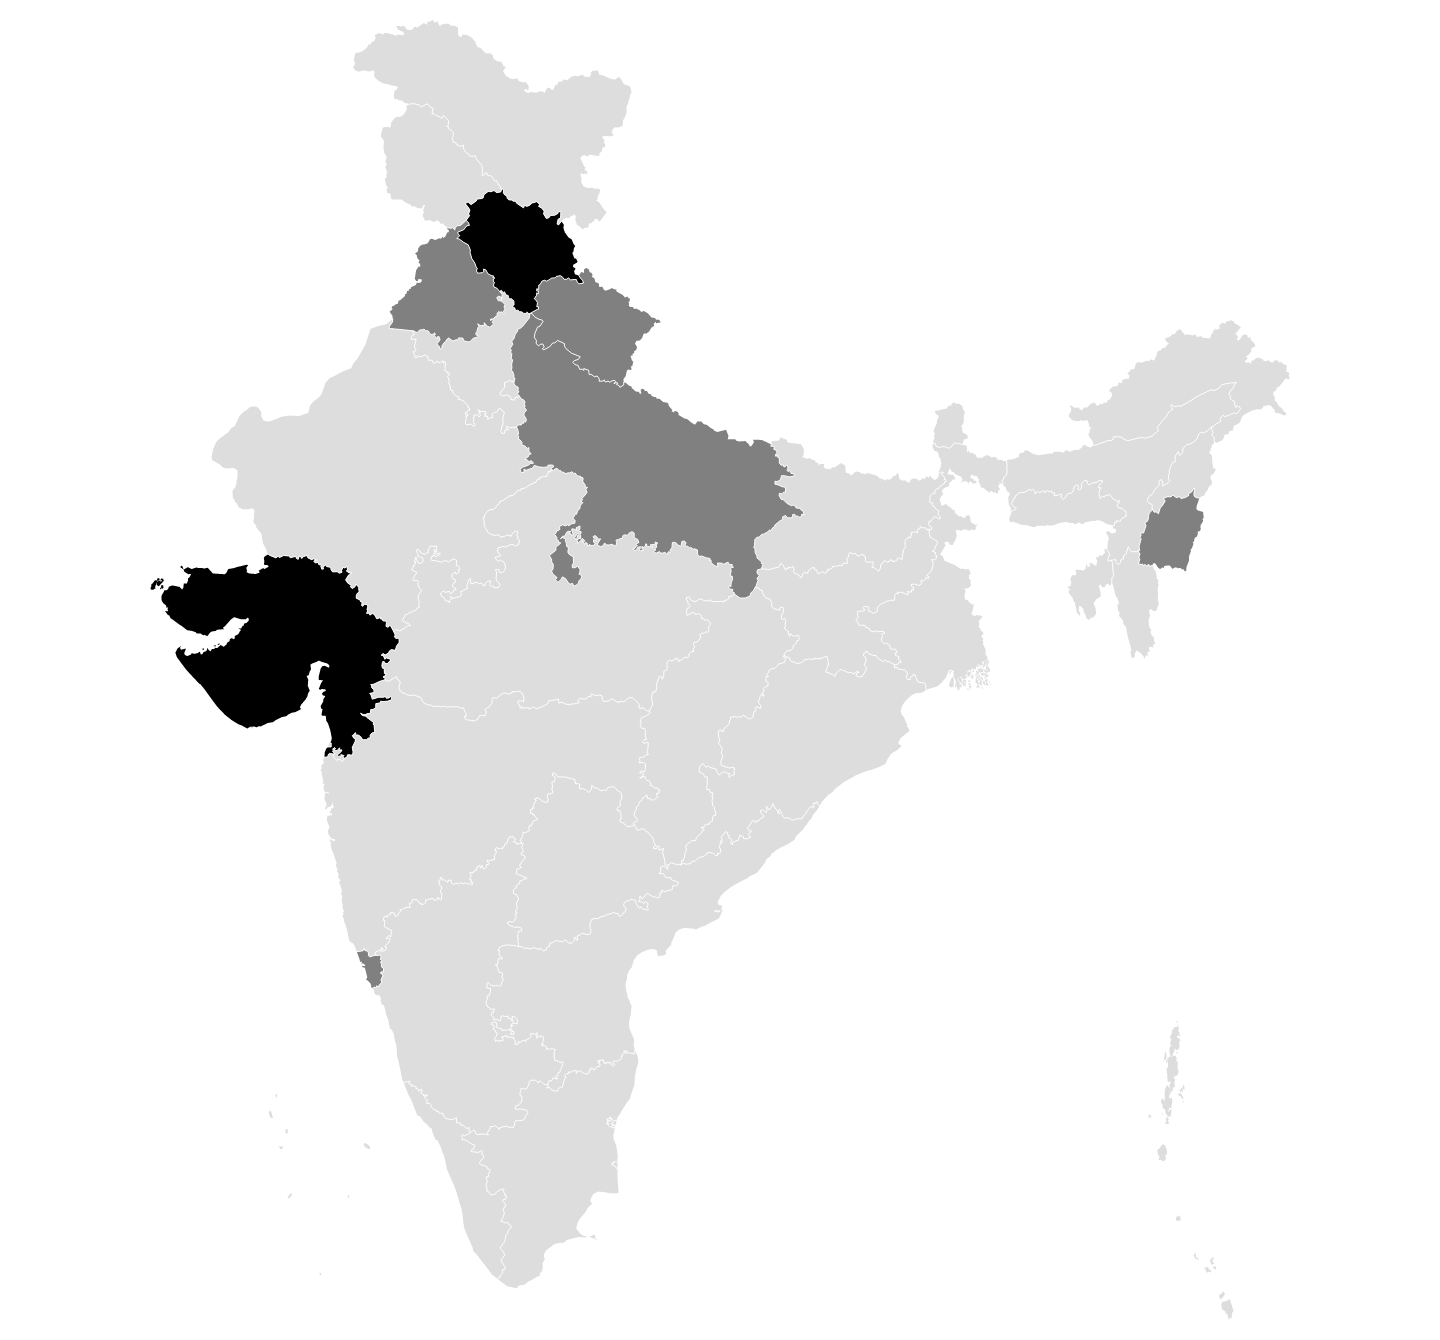
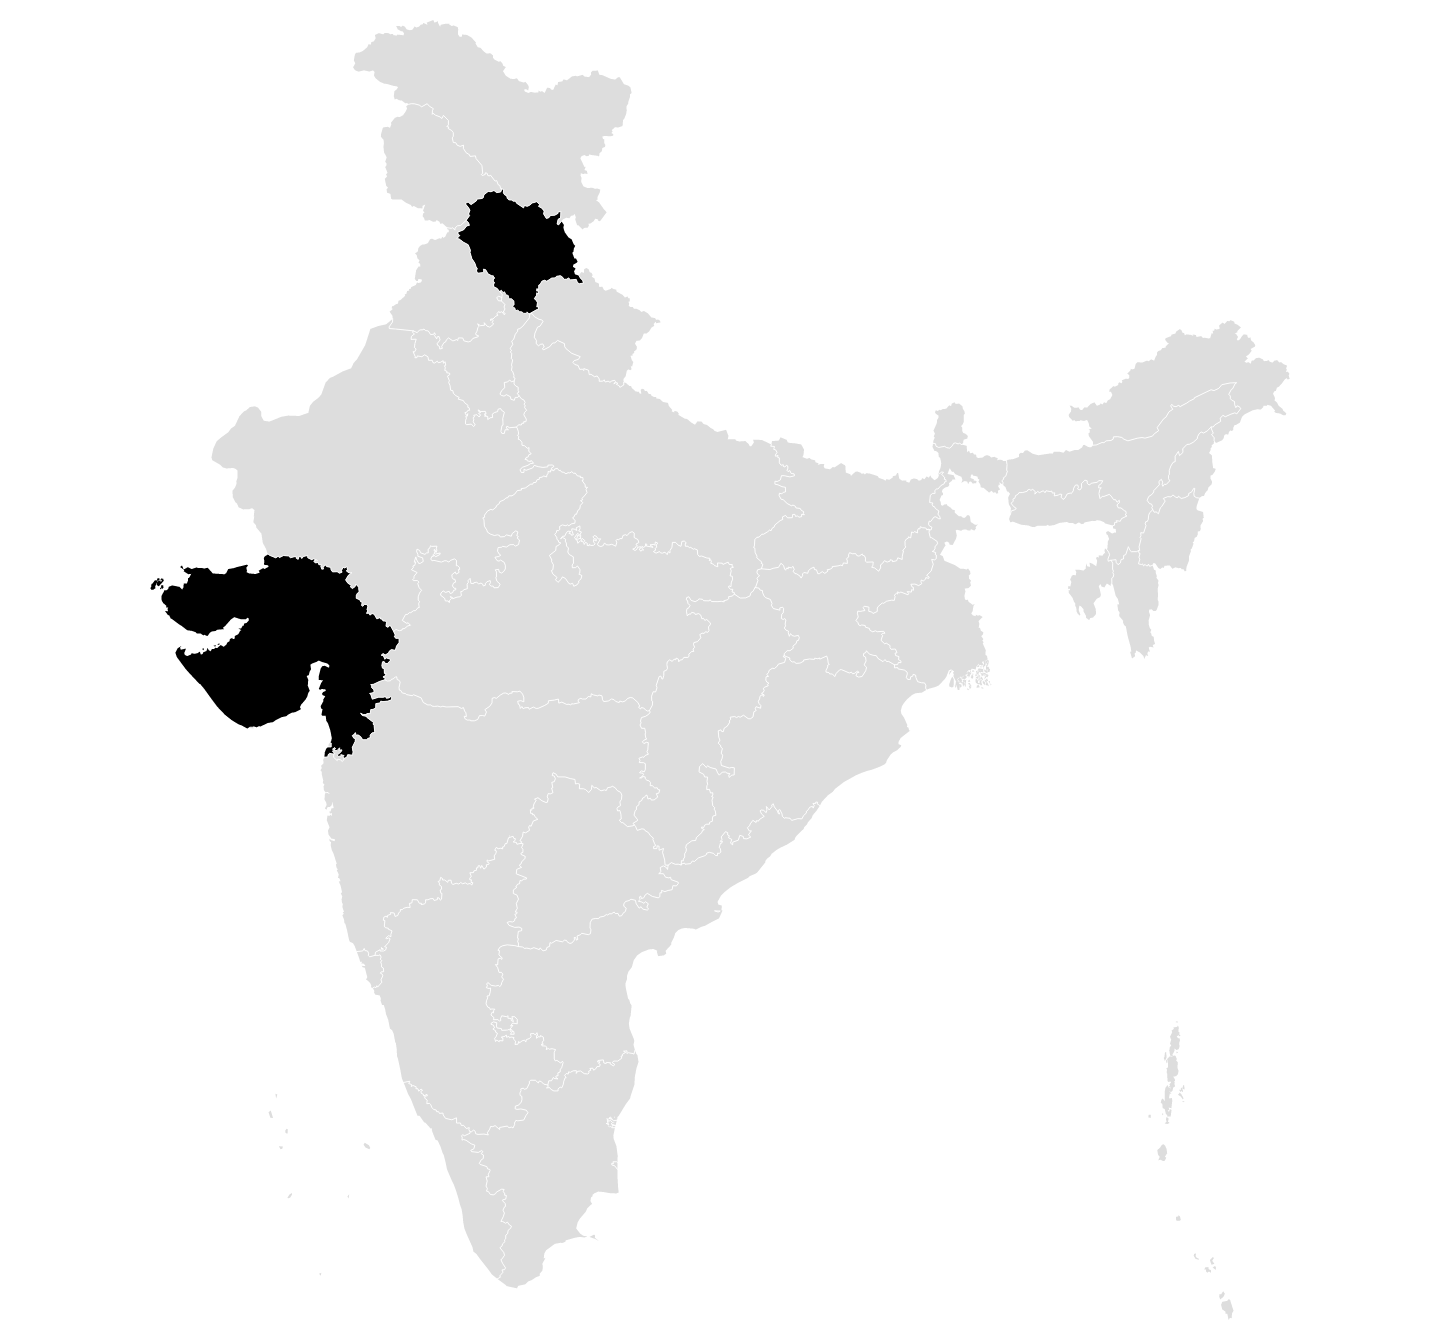
heading changes

Changed region(s): [[0.25, 0.153, 0.5625, 0.459], [0.7812, 0.3672, 0.8438, 0.4284], [0.25, 0.7037, 0.2812, 0.7343]]

diff --git a/index.html b/index.html
@@ -7,7 +7,7 @@
 </head>
 
 <body>
-  <div id="title"><h1> 2022 Assembly Elections at a glance<h1></div>
+  <div id="title"><h1> 2022 Gujarat and Himachal Pradesh Assembly Elections metrics<h1></div>
   <div id="Backtotop"></div>
   <div class="flex-container">
     <div class="flex-item-left">
@@ -15,7 +15,7 @@
     </div>
     
   <div class="flex-item-right">
-    <div id="click_text"><br><p>Check out metrics for Himachal Pradesh and Gujarat.</p></div><br>
+    <div id="click_text"><br><p></p></div><br>
 
     <div class="topnav">      
       <a href="#11">1. 2022 & 2017: Total number of contestants</a>
@@ -244,7 +244,7 @@
   <table border="1" class="dataframe">
   <thead>
     <tr style="text-align: right;">
-      <th>State_Name</th>
+      <th>State Name</th>
       <th>2012: Parties Contested</th>
       <th>2012: Parties Represented</th>
       <th>2017: Parties Contested</th>
@@ -365,10 +365,10 @@
   <thead>
     <tr style="text-align: right;">
       <th>State</th>
-      <th>2012: Total_Turncoat</th>
-      <th>2012: Total_Contestants</th>
-      <th>2017: Total_Turncoat</th>
-      <th>2017: Total_Contestants</th>
+      <th>2012: Total Turncoat</th>
+      <th>2012: Total Contestants</th>
+      <th>2017: Total Turncoat</th>
+      <th>2017: Total Contestants</th>
       <th>Link to historical data</th>
     </tr>
   </thead>
@@ -485,8 +485,8 @@
     <tr style="text-align: right;">
       <th>State_Name</th>
       <th>Party</th>
-      <th>Seat_Count</th>
-      <th>Total_Seats</th>
+      <th>Seat Count</th>
+      <th>Total Seats</th>
       <th>Percentage</th>
     </tr>
   </thead>
@@ -494,15 +494,15 @@
     <tr>
       <td>Gujarat</td>
       <td>INC</td>
-      <td>77.0</td>
-      <td>182.0</td>
+      <td>77</td>
+      <td>182</td>
       <td>42.31</td>
     </tr>
     <tr>
       <td>Himachal Pradesh</td>
       <td>INC</td>
-      <td>21.0</td>
-      <td>68.0</td>
+      <td>21</td>
+      <td>68</td>
       <td>30.88</td>
     </tr>
   </tbody>
@@ -517,8 +517,8 @@
     <tr style="text-align: right;">
       <th>State_Name</th>
       <th>Party</th>
-      <th>Seat_Count</th>
-      <th>Total_Seats</th>
+      <th>Seat Count</th>
+      <th>Total Seats</th>
       <th>Percentage</th>
     </tr>
   </thead>
@@ -526,15 +526,15 @@
     <tr>
       <td>Gujarat</td>
       <td>BJP</td>
-      <td>99.0</td>
-      <td>182.0</td>
+      <td>99</td>
+      <td>182</td>
       <td>54.40</td>
     </tr>
     <tr>
       <td>Himachal Pradesh</td>
       <td>BJP</td>
-      <td>44.0</td>
-      <td>68.0</td>
+      <td>44</td>
+      <td>68</td>
       <td>64.71</td>
     </tr>
   </tbody>
